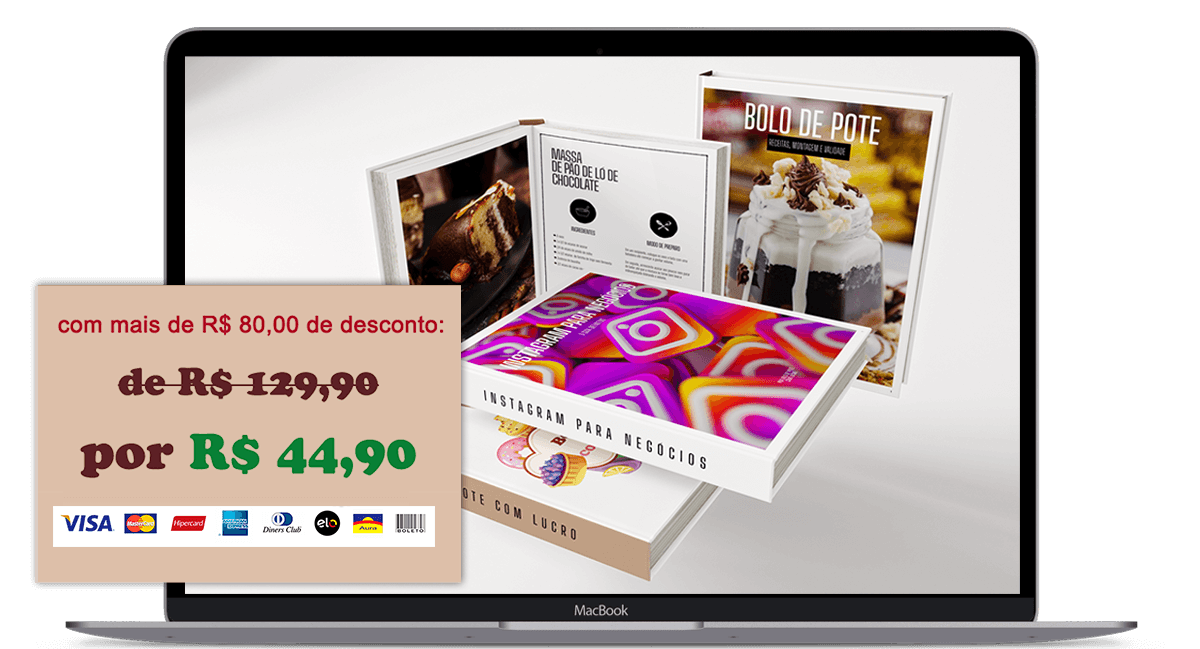
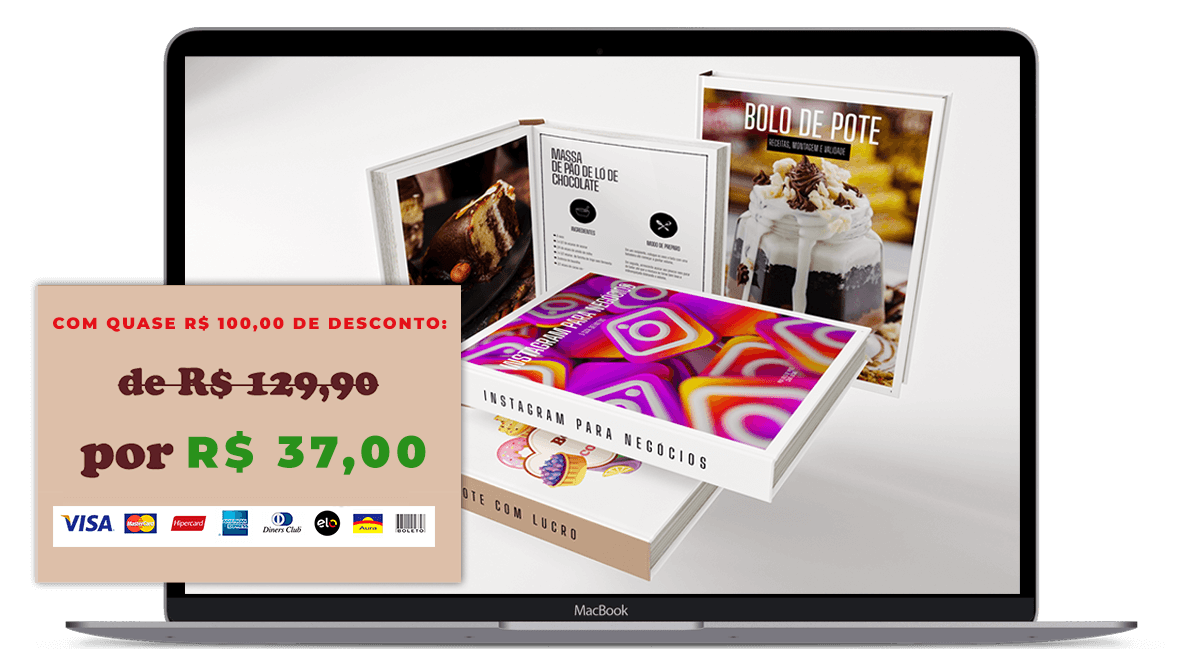
alteracao de preco

Changed region(s): [[0.1542, 0.6471, 0.37, 0.7396], [0.0308, 0.4622, 0.37, 0.5239]]

diff --git a/index.html b/index.html
@@ -75,7 +75,7 @@
                           <c id="contador" style="color: red; font-size: 29;"></c>
                         </div>
                         <div id="button-nav">
-                            <a href="https://payment.hotmart.com/J24771725T?off=u22amyzp&checkoutMode=10&bid=1588713278536" class="btn btn-custom">EU QUERO</a>
+                            <a href="https://pay.hotmart.com/J24771725T?off=mpoe0tbc&checkoutMode=10&bid=1596673750187" class="btn btn-custom">EU QUERO</a>
                         </div>
                 </div>
                 <!-- End Logo container-->
@@ -187,10 +187,10 @@
             <div class="container">
                 <div class="row justify-content-center">
                     <div class="col-md-10 text-center text-white">
-                        <h1 class="mt-5 pt-5 home-title"><span class="element" data-elements="Ganhe mais de 5 mil reais por mês trabalhando em casa."></span></h1>
-                        <p class="home-subtitle mx-auto pt-2">Curso completo com todas as informações, receitas, dicas de marketing e o suporte que você precisa para vender MUITO!</p>
+                        <h1 class="mt-5 pt-5 home-title"><span class="element" data-elements="PROMO RELÂMPAGO DE FIM DE QUARENTENA!"></span></h1>
+                        <p class="home-subtitle mx-auto pt-2">Ganhe mais de 5 mil reais por mês trabalhando em casa com o curso completo com todas as informações, receitas, dicas de marketing e o suporte que você precisa para vender MUITO!</p>
                         <div class="mt-5">
-                            <a href="https://payment.hotmart.com/J24771725T?off=u22amyzp&checkoutMode=10&bid=1588713278536" class="btn btn-custom">EU QUERO</a>
+                            <a href="https://pay.hotmart.com/J24771725T?off=mpoe0tbc&checkoutMode=10&bid=1596673750187" class="btn btn-custom">EU QUERO</a>
                         </div>
                       <!--   <a href="https://vimeo.com/108096448" class="pt-4 video-play-icon watch-overview d-inline-block text-white">Watch the overview &nbsp;<i class="mdi mdi-chevron-right"></i></a> -->
                         <div class=""> 
@@ -462,10 +462,10 @@
                                 <h2><sup></sup>R$ 129,90</h2>
                             </div>
                             <div class="plan-lable">
-                                <H3 class="mb-3 text-uppercase">POR APENAS R$ 44,90 OU 4X DE:</H3>
+                                <H3 class="mb-3 text-uppercase">POR APENAS R$ 37,00 OU 4X DE:</H3>
                             </div>
                             <div class="plan-price">
-                                <h2><sup></sup>R$ 11,22</h2>
+                                <h2><sup></sup>R$ 9,25</h2>
                             </div>
                             <div class="plan-name mt-4">
                                 <h6>NÃO PERCA MAIS TEMPO!</h6>
@@ -474,7 +474,7 @@
                                 <p class="mb-0 text-muted">CLIQUE NO BOTÃO ABAIXO E ADQUIRA 3 LIVROS DIGITAIS COM MAIS DE 60 RECEITAS DE BOLO DE POTE + BÔNUS EXCLUSIVO</p>
                             </div>
                             <div class="mt-5">
-                                <a href="https://payment.hotmart.com/J24771725T?off=u22amyzp&checkoutMode=10&bid=1588713278536" class="btn btn-custom btn-rounded">EU QUERO AGORA</a>
+                                <a href="https://pay.hotmart.com/J24771725T?off=mpoe0tbc&checkoutMode=10&bid=1596673750187" class="btn btn-custom btn-rounded">EU QUERO AGORA</a>
                             </div>
                              <div class="plan-desc mt-4">
                                 <img src="images/modo-de-pagamento-1.png">
@@ -635,7 +635,7 @@
                             <h3 class="section-title text-white pt-5">Ainda tem dúvidas?</h3>
                             <p class="section-subtitle pt-3 text-whte">Confiamos tanto que irá gostar do curso, que dispomos de uma garantia de 7 dias. Lembrando, que o resultado financeiro pode variar de pessoa para pessoa, vai depender da dedicação de cada um. Me chamo Roberta, se ficou com alguma dúvida não hesite em contatar-nos:</p>
                             <div class="mt-5">
-                                <a href="https://payment.hotmart.com/J24771725T?off=u22amyzp&checkoutMode=10&bid=1588713278536" class="btn btn-custom btn-rounded">QUERO ESSE CURSO!</a>
+                                <a href="https://pay.hotmart.com/J24771725T?off=mpoe0tbc&checkoutMode=10&bid=1596673750187" class="btn btn-custom btn-rounded">QUERO ESSE CURSO!</a>
                             </div>
 
                         </div>
